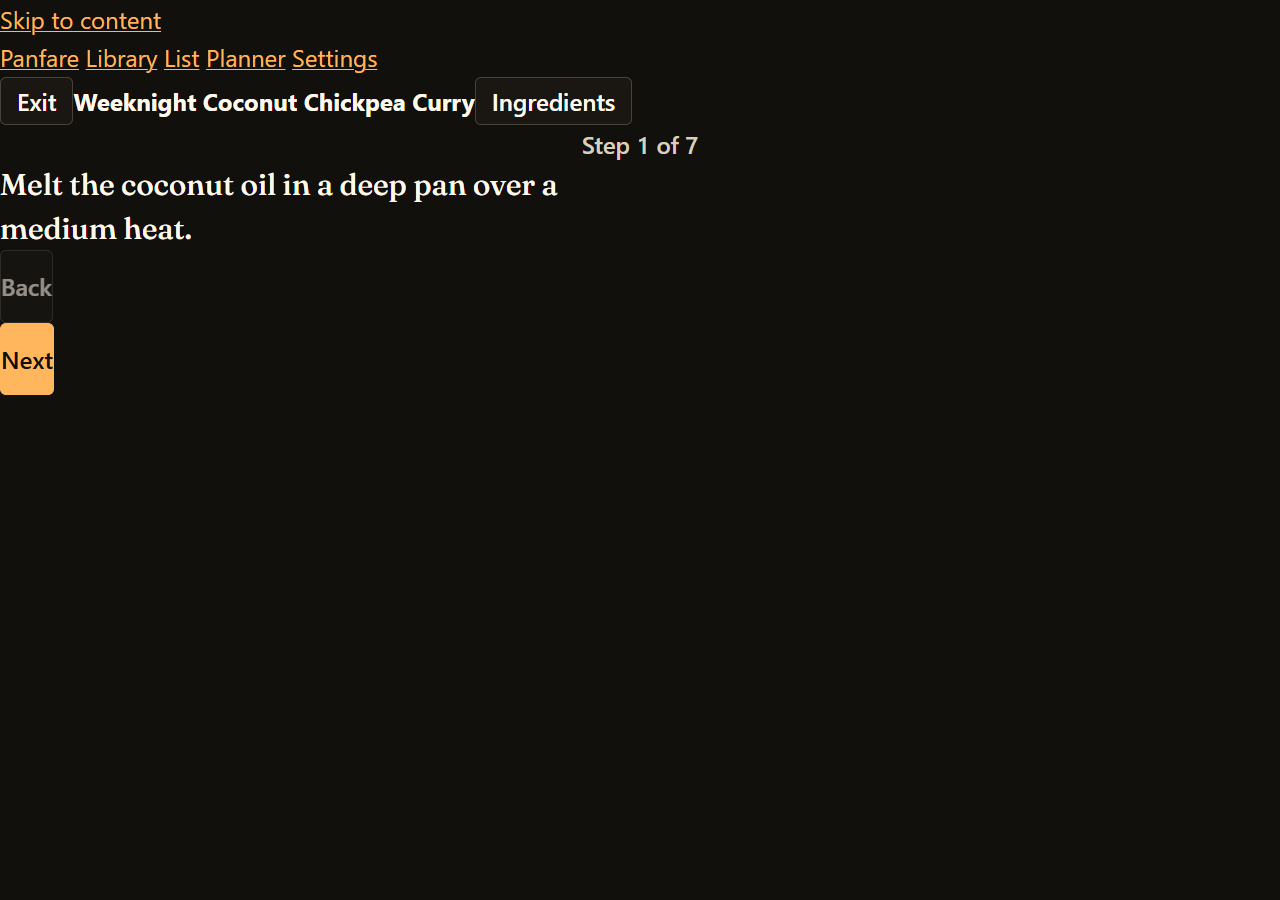
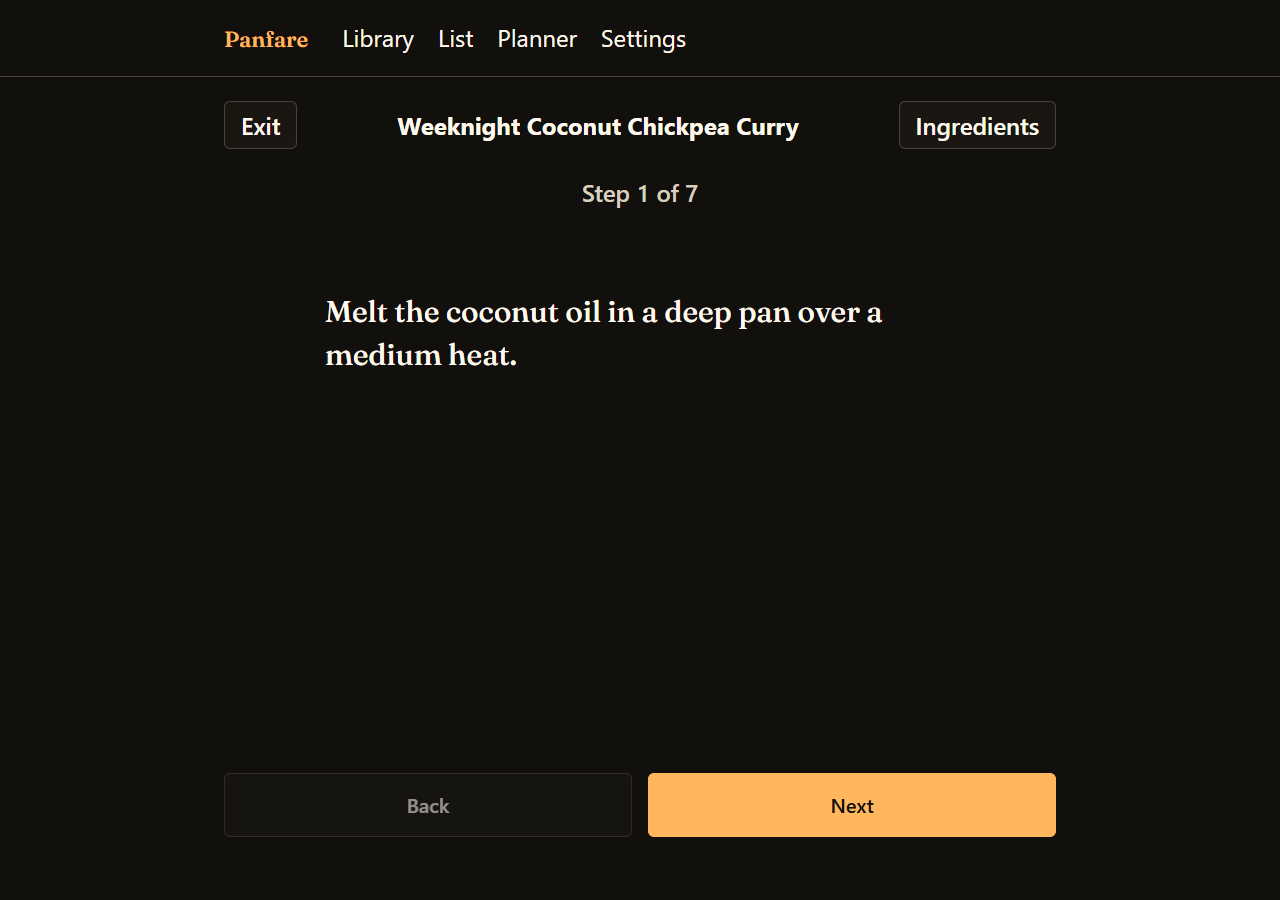
Layout polish: page measure, styled header nav and skip link, cook-mode composition, list/planner form spacing; ephemeral-port smoke runs

diff --git a/src/styles/base.css b/src/styles/base.css
@@ -746,3 +746,127 @@ select[disabled] {
     break-after: avoid;
   }
 }
+
+/* ---------------------------------------------------------------------------
+   18. Page chrome and layout polish
+   ------------------------------------------------------------------------- */
+
+main {
+  max-width: 880px;
+  margin: 0 auto;
+  padding: 24px 24px 96px;
+}
+
+.app-header {
+  border-bottom: 1px solid var(--pf-line, #E4DCCE);
+  background: var(--pf-paper, #FAF6EF);
+  position: sticky;
+  top: 0;
+  z-index: 10;
+}
+
+.app-nav {
+  max-width: 880px;
+  margin: 0 auto;
+  padding: 12px 24px;
+  display: flex;
+  gap: 20px;
+  align-items: baseline;
+}
+
+.app-nav .brand {
+  font-family: var(--pf-font-display, Georgia, serif);
+  font-size: 22px;
+  font-weight: 600;
+  margin-right: 12px;
+  color: var(--pf-accent, #A64B22);
+  text-decoration: none;
+}
+
+.app-nav a:not(.brand) {
+  color: var(--pf-ink, #26221C);
+  text-decoration: none;
+  padding: 6px 2px;
+  border-bottom: 2px solid transparent;
+}
+
+.app-nav a:not(.brand):hover { border-bottom-color: var(--pf-line, #E4DCCE); }
+
+.skip-link {
+  position: absolute;
+  left: -9999px;
+  top: 0;
+  background: var(--pf-surface, #FFFFFF);
+  color: var(--pf-ink, #26221C);
+  padding: 8px 16px;
+  z-index: 100;
+}
+.skip-link:focus { left: 8px; top: 8px; }
+
+fieldset {
+  border: 1px solid var(--pf-line, #E4DCCE);
+  border-radius: 8px;
+  padding: 16px 24px;
+  margin: 24px 0;
+}
+legend { font-weight: 600; padding: 0 8px; }
+
+.inline-label {
+  display: inline-flex;
+  align-items: center;
+  gap: 8px;
+  margin: 12px 20px 0 0;
+}
+
+.item-notes {
+  color: var(--pf-ink-muted, #5D564A);
+  font-style: italic;
+  font-size: 0.86rem;
+  margin: 2px 0 14px 46px;
+}
+
+.list-source { margin-top: 16px; }
+.picker-list li { margin: 6px 0; display: flex; align-items: center; gap: 10px; }
+.picker-list input[type="number"] { width: 5.5rem; }
+
+.staples-footer { margin-top: 20px; }
+
+.btn-row { display: flex; gap: 12px; flex-wrap: wrap; align-items: center; margin: 12px 0; }
+.btn-small { min-height: 36px; padding: 4px 12px; font-size: 0.9rem; }
+.chip {
+  display: inline-block;
+  border: 1px solid var(--pf-line, #E4DCCE);
+  border-radius: 999px;
+  padding: 1px 10px;
+  font-size: 0.82rem;
+  color: var(--pf-ink-muted, #5D564A);
+}
+.banner-ok {
+  border-left: 4px solid var(--pf-ok, #3E6B4F);
+  background: var(--pf-surface, #FFFFFF);
+  padding: 10px 16px;
+  margin: 12px 0;
+}
+
+/* cook mode composition */
+.cook-mode { display: flex; flex-direction: column; gap: 24px; min-height: calc(100vh - 140px); }
+.cook-header { display: flex; align-items: center; justify-content: space-between; gap: 16px; }
+.cook-step { margin: 6vh auto 0; text-wrap: pretty; }
+.cook-controls { margin-top: auto; display: flex; gap: 16px; padding-bottom: 24px; }
+.cook-controls .cook-nav .btn,
+.cook-controls .btn { flex: 1; min-height: 64px; font-size: 1.25rem; }
+.cook-timers { display: flex; gap: 12px; flex-wrap: wrap; justify-content: center; }
+.cook-ingredients {
+  border: 1px solid var(--pf-line, #E4DCCE);
+  border-radius: 8px;
+  padding: 16px 24px;
+  background: var(--pf-surface, #FFFFFF);
+}
+.rate-row { display: flex; gap: 8px; justify-content: center; margin: 16px 0; }
+.slot-controls { display: flex; gap: 8px; align-items: center; }
+.slot-controls input[type="number"] { width: 5.5rem; }
+.plan-grid { display: grid; grid-template-columns: repeat(auto-fit, minmax(220px, 1fr)); gap: 16px; margin-top: 16px; }
+.plan-day { border: 1px solid var(--pf-line, #E4DCCE); border-radius: 8px; padding: 12px 16px; }
+.slots { list-style: none; margin: 8px 0; padding: 0; display: grid; gap: 10px; }
+.slot-title { font-weight: 600; display: block; margin-top: 6px; }
+.slot-meta { margin: 2px 0 6px; }
